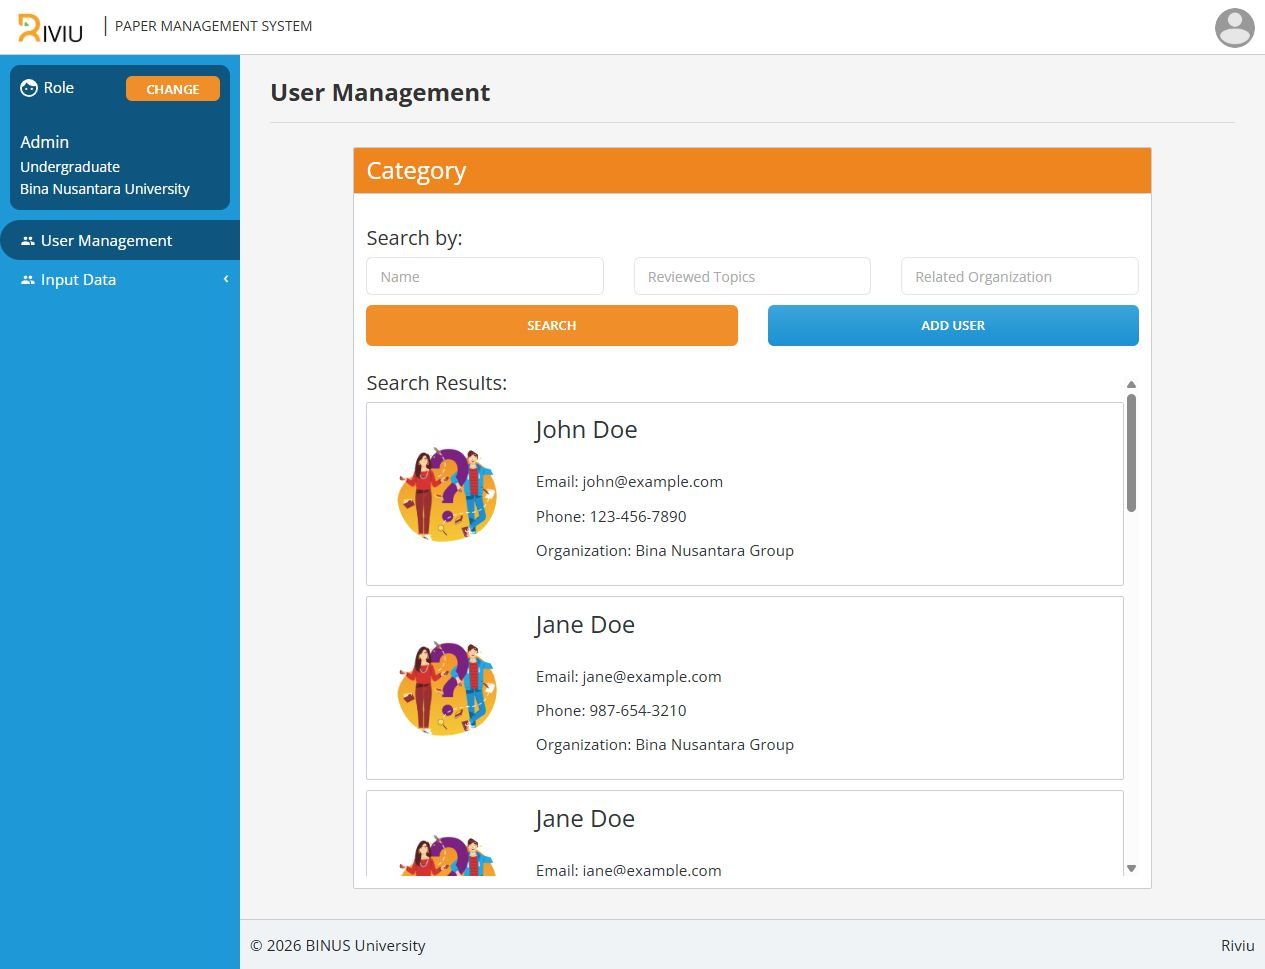
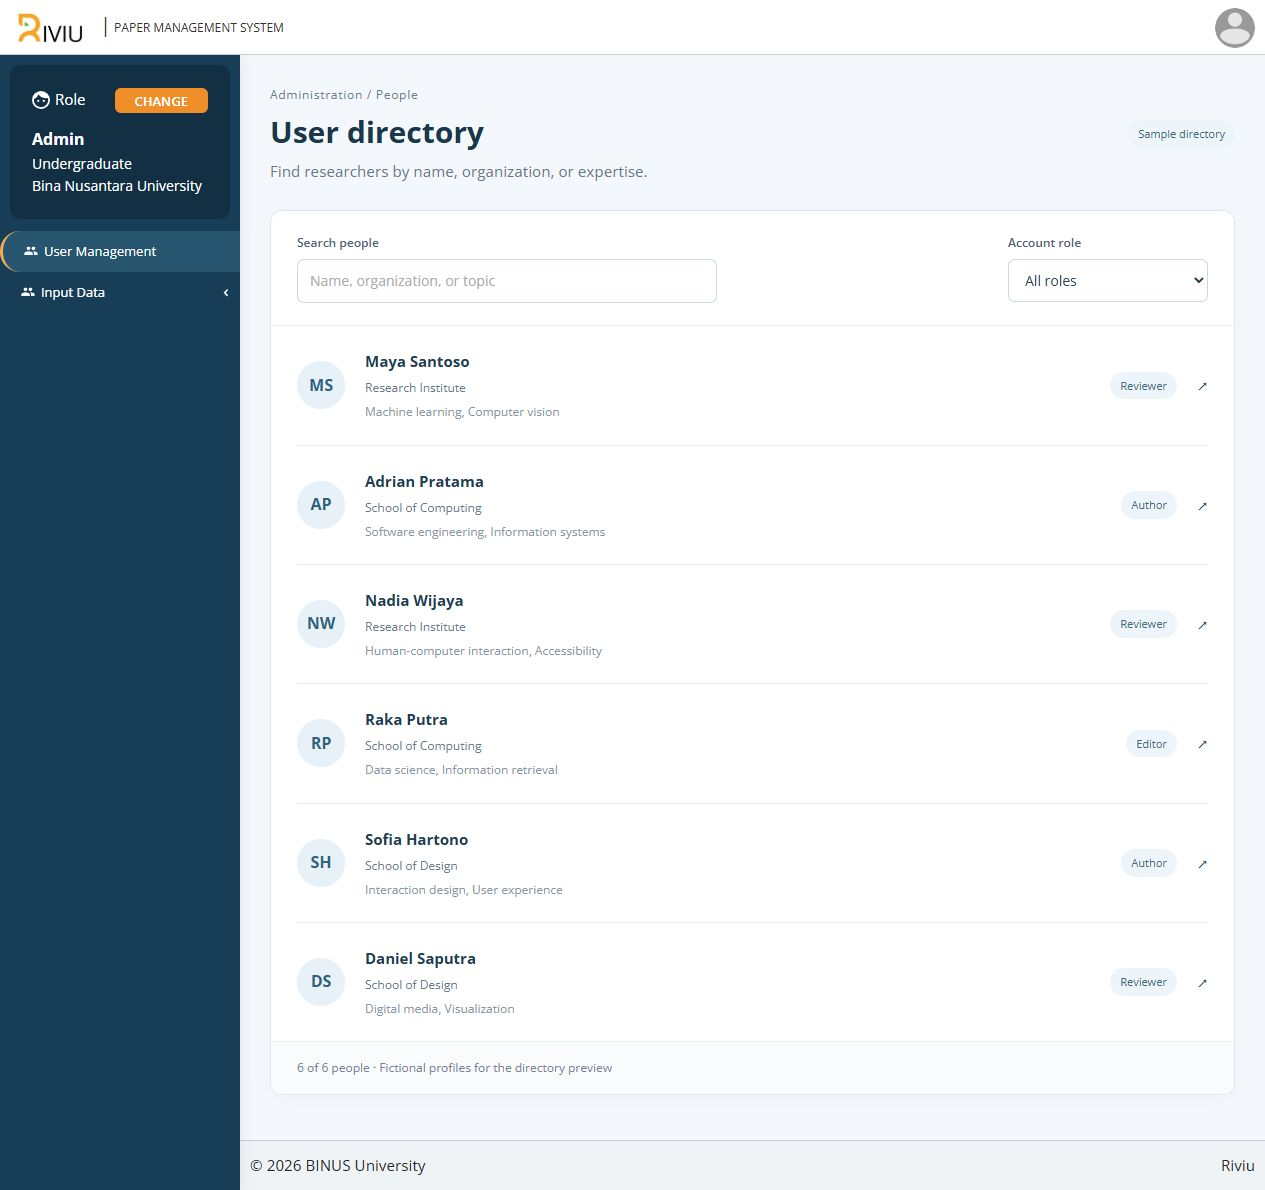
Replace Riviu previews with verified desktop and mobile gallery

diff --git a/site/projects/riviu/index.html b/site/projects/riviu/index.html
@@ -1,1 +1,1 @@
-<!doctype html><html lang="en"><head><meta charset="utf-8"><meta name="viewport" content="width=device-width,initial-scale=1"><title>Riviu — Doddie Prawarjito</title><meta name="description" content="Submission, review, and revision — organized around an academic workflow."><link rel="stylesheet" href="../../style.css"><link rel="stylesheet" href="../../case-study.css"></head><body><a class="skip-link" href="#case">Skip to project</a><header class="case-nav"><a href="../../#work">DODDIE / SELECTED WORK ↖</a><button id="case-language" aria-label="Switch language">EN / ID</button></header><main id="case" class="case-main"><div class="case-kicker mono">REACT / .NET / SQL SERVER</div><h1>Riviu<span class="case-dot">.</span></h1><p class="case-lead"><span data-en="Submission, review, and revision — organized around an academic workflow." data-id="Pengajuan, review, dan revisi dalam sebuah alur kerja akademik.">Submission, review, and revision — organized around an academic workflow.</span></p><div class="case-rule"></div><section class="case-columns"><div><h2 data-en="The idea" data-id="Ide">The idea</h2><p><span data-en="During my BINUS web development internship, I developed .NET backend and React frontend features for an academic-writing and revision-tracking pilot used by a professor. I integrated APIs and handed over the pilot to the next intern team. Quixell was an early trial before the project became Riviu, rather than a separate portfolio achievement." data-id="Saat magang pengembangan web di BINUS, saya mengembangkan backend .NET dan frontend React untuk pilot penulisan akademik dan pelacakan revisi yang digunakan seorang profesor. Saya mengintegrasikan API dan menyerahkan pilot ke tim magang berikutnya. Quixell merupakan percobaan awal sebelum bernama Riviu, sehingga ditampilkan sebagai riwayat proyek yang sama.">During my BINUS web development internship, I developed .NET backend and React frontend features for an academic-writing and revision-tracking pilot used by a professor. I integrated APIs and handed over the pilot to the next intern team. Quixell was an early trial before the project became Riviu, rather than a separate portfolio achievement.</span></p></div><div><h2 data-en="What I built" data-id="Yang saya bangun">What I built</h2><p><span data-en="React administration screens, role navigation and .NET APIs for account, article, publication and review data. Shared authentication connects the services to the interface." data-id="Layar administrasi React, navigasi peran, dan API .NET untuk data akun, artikel, publikasi, serta review. Autentikasi bersama menghubungkan layanan dengan antarmuka.">React administration screens, role navigation and .NET APIs for account, article, publication and review data. Shared authentication connects the services to the interface.</span></p></div></section><section class="case-evidence"><span class="mono" data-en="PROJECT SCOPE" data-id="CAKUPAN PROYEK">PROJECT SCOPE</span><p><span data-en="Five .NET services and the React frontend build successfully. Demo login, role navigation, and authenticated master-data access work locally. A shared demo JWT is accepted across all four data services using dedicated synthetic databases. The local authentication prototype is single-user and in-memory; institutional SSO and the complete manuscript workflow are not verified, and some service controllers remain placeholders." data-id="Lima layanan .NET dan frontend React berhasil dibangun. Login demo, navigasi peran, dan akses master data berjalan secara lokal. JWT demo diterima empat layanan data dengan database sintetis terpisah. Autentikasi demo bersifat satu pengguna dalam memori; SSO institusi dan alur dokumen lengkap belum terverifikasi; beberapa controller masih berupa placeholder.">Five .NET services and the React frontend build successfully. Demo login, role navigation, and authenticated master-data access work locally. A shared demo JWT is accepted across all four data services using dedicated synthetic databases. The local authentication prototype is single-user and in-memory; institutional SSO and the complete manuscript workflow are not verified, and some service controllers remain placeholders.</span></p></section><section class="case-gallery"><h2 data-en="Explore the features" data-id="Jelajahi fitur">Explore the features</h2><figure><a href="../../assets/riviu-master.jpg"><img src="../../assets/riviu-master.jpg" alt="Connected master-data administration · synthetic records" loading="lazy"></a><figcaption><span data-en="Connected master-data administration · synthetic records" data-id="Administrasi master data terhubung · data sintetis">Connected master-data administration · synthetic records</span></figcaption></figure><figure><a href="../../assets/riviu-login.jpg"><img src="../../assets/riviu-login.jpg" alt="Local demo sign-in" loading="lazy"></a><figcaption><span data-en="Local demo sign-in" data-id="Login demo lokal">Local demo sign-in</span></figcaption></figure><figure><a href="../../assets/riviu-users.jpg"><img src="../../assets/riviu-users.jpg" alt="User administration interface · sample profiles" loading="lazy"></a><figcaption><span data-en="User administration interface · sample profiles" data-id="Antarmuka administrasi pengguna · profil contoh">User administration interface · sample profiles</span></figcaption></figure><figure><a href="../../assets/riviu-editor.jpg"><img src="../../assets/riviu-editor.jpg" alt="User-type editor" loading="lazy"></a><figcaption><span data-en="User-type editor" data-id="Editor tipe pengguna">User-type editor</span></figcaption></figure><figure><a href="../../assets/riviu-result.jpg"><img src="../../assets/riviu-result.jpg" alt="Saved reviewer category" loading="lazy"></a><figcaption><span data-en="Saved reviewer category" data-id="Kategori reviewer tersimpan">Saved reviewer category</span></figcaption></figure></section><div class="case-actions"><a href="../../#work">Back to portfolio ↖</a></div></main><footer class="case-footer">DODDIE PRAWARJITO / SOFTWARE DEVELOPER</footer><script src="../../case-study.js"></script></body></html>
+<!doctype html><html lang="en"><head><meta charset="utf-8"><meta name="viewport" content="width=device-width,initial-scale=1"><title>Riviu — Doddie Prawarjito</title><meta name="description" content="Submission, review, and revision — organized around an academic workflow."><link rel="stylesheet" href="../../style.css"><link rel="stylesheet" href="../../case-study.css"></head><body><a class="skip-link" href="#case">Skip to project</a><header class="case-nav"><a href="../../#work">DODDIE / SELECTED WORK ↖</a><button id="case-language" aria-label="Switch language">EN / ID</button></header><main id="case" class="case-main"><div class="case-kicker mono">REACT / .NET / SQL SERVER</div><h1>Riviu<span class="case-dot">.</span></h1><p class="case-lead"><span data-en="An academic workspace with role-based navigation and clear administration tools." data-id="Workspace akademik dengan navigasi peran dan alat administrasi yang jelas.">An academic workspace with role-based navigation and clear administration tools.</span></p><div class="case-rule"></div><section class="case-columns"><div><h2 data-en="The idea" data-id="Ide">The idea</h2><p><span data-en="Built during my BINUS web development internship, Riviu supports an academic-writing and revision-tracking pilot. I developed React and .NET features, integrated services, and handed the project over to the next intern team." data-id="Dibangun saat magang pengembangan web di BINUS, Riviu mendukung pilot penulisan akademik dan pelacakan revisi. Saya mengembangkan fitur React dan .NET, mengintegrasikan layanan, serta menyerahkan proyek kepada tim magang berikutnya.">Built during my BINUS web development internship, Riviu supports an academic-writing and revision-tracking pilot. I developed React and .NET features, integrated services, and handed the project over to the next intern team.</span></p></div><div><h2 data-en="What I built" data-id="Yang saya bangun">What I built</h2><p><span data-en="Role navigation, a searchable researcher directory, and connected user-type administration with validated forms, edit actions, duplicate handling, and deletion confirmation. The refreshed interface adapts to desktop and mobile." data-id="Navigasi peran, direktori peneliti yang dapat dicari, dan administrasi tipe pengguna terhubung dengan validasi form, pengeditan, penanganan duplikasi, serta konfirmasi penghapusan. Antarmuka diperbarui untuk desktop dan mobile.">Role navigation, a searchable researcher directory, and connected user-type administration with validated forms, edit actions, duplicate handling, and deletion confirmation. The refreshed interface adapts to desktop and mobile.</span></p></div></section><section class="case-evidence"><span class="mono" data-en="PROJECT SCOPE" data-id="CAKUPAN PROYEK">PROJECT SCOPE</span><p><span data-en="The local preview connects sign-in and user-type management to .NET services and a separate SQL Server demo database. The researcher directory uses fictional profiles. Institutional SSO and the full manuscript workflow are outside this preview." data-id="Preview lokal menghubungkan login dan pengelolaan tipe pengguna ke layanan .NET dan database demo SQL Server terpisah. Direktori peneliti menggunakan profil fiktif. SSO institusi dan alur manuskrip lengkap di luar cakupan preview ini.">The local preview connects sign-in and user-type management to .NET services and a separate SQL Server demo database. The researcher directory uses fictional profiles. Institutional SSO and the full manuscript workflow are outside this preview.</span></p></section><section class="case-gallery"><h2 data-en="Explore the features" data-id="Jelajahi fitur">Explore the features</h2><figure><a href="../../assets/riviu-master.jpg"><img src="../../assets/riviu-master.jpg" alt="User-type administration · connected demo database" loading="lazy"></a><figcaption><span data-en="User-type administration · connected demo database" data-id="Administrasi tipe pengguna · database demo terhubung">User-type administration · connected demo database</span></figcaption></figure><figure><a href="../../assets/riviu-login.jpg"><img src="../../assets/riviu-login.jpg" alt="Workspace sign-in" loading="lazy"></a><figcaption><span data-en="Workspace sign-in" data-id="Login workspace">Workspace sign-in</span></figcaption></figure><figure><a href="../../assets/riviu-users.jpg"><img src="../../assets/riviu-users.jpg" alt="Searchable researcher directory · sample profiles" loading="lazy"></a><figcaption><span data-en="Searchable researcher directory · sample profiles" data-id="Direktori peneliti dengan pencarian · profil contoh">Searchable researcher directory · sample profiles</span></figcaption></figure><figure><a href="../../assets/riviu-profile.jpg"><img src="../../assets/riviu-profile.jpg" alt="Researcher details and expertise" loading="lazy"></a><figcaption><span data-en="Researcher details and expertise" data-id="Detail dan keahlian peneliti">Researcher details and expertise</span></figcaption></figure><figure><a href="../../assets/riviu-editor.jpg"><img src="../../assets/riviu-editor.jpg" alt="Validated user-type editor" loading="lazy"></a><figcaption><span data-en="Validated user-type editor" data-id="Editor tipe pengguna dengan validasi">Validated user-type editor</span></figcaption></figure><figure><a href="../../assets/riviu-result.jpg"><img src="../../assets/riviu-result.jpg" alt="Saved category and filtered results" loading="lazy"></a><figcaption><span data-en="Saved category and filtered results" data-id="Kategori tersimpan dan hasil pencarian">Saved category and filtered results</span></figcaption></figure><figure class="case-mobile"><a href="../../assets/riviu-mobile.jpg"><img src="../../assets/riviu-mobile.jpg" alt="Mobile user-type administration" loading="lazy"></a><figcaption><span data-en="Mobile user-type administration" data-id="Administrasi tipe pengguna pada mobile">Mobile user-type administration</span></figcaption></figure></section><div class="case-actions"><a href="../../#work">Back to portfolio ↖</a></div></main><footer class="case-footer">DODDIE PRAWARJITO / SOFTWARE DEVELOPER</footer><script src="../../case-study.js"></script></body></html>

diff --git a/site/projects.js b/site/projects.js
@@ -68,46 +68,56 @@ const projects = [
     "stack": "REACT / .NET / SQL SERVER",
     "cover": "riviu",
     "summary": [
-      "Submission, review, and revision — organized around an academic workflow.",
-      "Pengajuan, review, dan revisi dalam sebuah alur kerja akademik."
+      "An academic workspace with role-based navigation and clear administration tools.",
+      "Workspace akademik dengan navigasi peran dan alat administrasi yang jelas."
     ],
     "story": [
-      "During my BINUS web development internship, I developed .NET backend and React frontend features for an academic-writing and revision-tracking pilot used by a professor. I integrated APIs and handed over the pilot to the next intern team. Quixell was an early trial before the project became Riviu, rather than a separate portfolio achievement.",
-      "Saat magang pengembangan web di BINUS, saya mengembangkan backend .NET dan frontend React untuk pilot penulisan akademik dan pelacakan revisi yang digunakan seorang profesor. Saya mengintegrasikan API dan menyerahkan pilot ke tim magang berikutnya. Quixell merupakan percobaan awal sebelum bernama Riviu, sehingga ditampilkan sebagai riwayat proyek yang sama."
+      "Built during my BINUS web development internship, Riviu supports an academic-writing and revision-tracking pilot. I developed React and .NET features, integrated services, and handed the project over to the next intern team.",
+      "Dibangun saat magang pengembangan web di BINUS, Riviu mendukung pilot penulisan akademik dan pelacakan revisi. Saya mengembangkan fitur React dan .NET, mengintegrasikan layanan, serta menyerahkan proyek kepada tim magang berikutnya."
     ],
     "contribution": [
-      "React administration screens, role navigation and .NET APIs for account, article, publication and review data. Shared authentication connects the services to the interface.",
-      "Layar administrasi React, navigasi peran, dan API .NET untuk data akun, artikel, publikasi, serta review. Autentikasi bersama menghubungkan layanan dengan antarmuka."
+      "Role navigation, a searchable researcher directory, and connected user-type administration with validated forms, edit actions, duplicate handling, and deletion confirmation. The refreshed interface adapts to desktop and mobile.",
+      "Navigasi peran, direktori peneliti yang dapat dicari, dan administrasi tipe pengguna terhubung dengan validasi form, pengeditan, penanganan duplikasi, serta konfirmasi penghapusan. Antarmuka diperbarui untuk desktop dan mobile."
     ],
     "evidence": [
-      "Five .NET services and the React frontend build successfully. Demo login, role navigation, and authenticated master-data access work locally. A shared demo JWT is accepted across all four data services using dedicated synthetic databases. The local authentication prototype is single-user and in-memory; institutional SSO and the complete manuscript workflow are not verified, and some service controllers remain placeholders.",
-      "Lima layanan .NET dan frontend React berhasil dibangun. Login demo, navigasi peran, dan akses master data berjalan secara lokal. JWT demo diterima empat layanan data dengan database sintetis terpisah. Autentikasi demo bersifat satu pengguna dalam memori; SSO institusi dan alur dokumen lengkap belum terverifikasi; beberapa controller masih berupa placeholder."
+      "The local preview connects sign-in and user-type management to .NET services and a separate SQL Server demo database. The researcher directory uses fictional profiles. Institutional SSO and the full manuscript workflow are outside this preview.",
+      "Preview lokal menghubungkan login dan pengelolaan tipe pengguna ke layanan .NET dan database demo SQL Server terpisah. Direktori peneliti menggunakan profil fiktif. SSO institusi dan alur manuskrip lengkap di luar cakupan preview ini."
     ],
     "gallery": [
       [
         "riviu-master.jpg",
-        "Connected master-data administration · synthetic records",
-        "Administrasi master data terhubung · data sintetis"
+        "User-type administration · connected demo database",
+        "Administrasi tipe pengguna · database demo terhubung"
       ],
       [
         "riviu-login.jpg",
-        "Local demo sign-in",
-        "Login demo lokal"
+        "Workspace sign-in",
+        "Login workspace"
       ],
       [
         "riviu-users.jpg",
-        "User administration interface · sample profiles",
-        "Antarmuka administrasi pengguna · profil contoh"
+        "Searchable researcher directory · sample profiles",
+        "Direktori peneliti dengan pencarian · profil contoh"
+      ],
+      [
+        "riviu-profile.jpg",
+        "Researcher details and expertise",
+        "Detail dan keahlian peneliti"
       ],
       [
         "riviu-editor.jpg",
-        "User-type editor",
-        "Editor tipe pengguna"
+        "Validated user-type editor",
+        "Editor tipe pengguna dengan validasi"
       ],
       [
         "riviu-result.jpg",
-        "Saved reviewer category",
-        "Kategori reviewer tersimpan"
+        "Saved category and filtered results",
+        "Kategori tersimpan dan hasil pencarian"
+      ],
+      [
+        "riviu-mobile.jpg",
+        "Mobile user-type administration",
+        "Administrasi tipe pengguna pada mobile"
       ]
     ]
   },

diff --git a/site/app.js b/site/app.js
@@ -14,7 +14,7 @@ function diagram(type){
 }
 function cover(project){if(project.gallery?.length)return `<img src="assets/${esc(project.gallery[0][0])}" alt="${esc(pick(project.gallery[0].slice(1)))}" loading="lazy">`;if(project.cover==='riviu')return '<img src="assets/riviu-demo.png" alt="Riviu master-data screen with synthetic records" loading="lazy" width="1101" height="884">';if(project.cover==='material')return '<img src="assets/material-dashboard.png" alt="Material Request dashboard using synthetic records" loading="lazy" width="894" height="830">';if(project.cover==='ats')return '<img src="assets/ats-home.png" alt="ATS company website homepage" loading="lazy" width="1086" height="872">';return diagram(project.cover);}
 function renderProjects(){
- document.querySelector('#projects').innerHTML=projects.map((p,i)=>`<article class="project-card" ${filter!=='all'&&filter!==p.category?'hidden':''}><div class="project-cover">${cover(p)}<span class="cover-label">${p.gallery?.length?(language==='en'?'ACTUAL SCREENSHOT':'SCREENSHOT LOKAL'):'SYSTEM MAP'}</span></div><div class="project-meta"><span>${String(i+1).padStart(2,'0')} / ${esc(pick(p.kind))}</span><span>${p.id==='stockmate'?'↗ WIP':'↗'}</span></div><div class="project-title"><h3>${esc(p.title)}</h3><button data-project="${p.id}" aria-label="${language==='en'?'Read about':'Baca tentang'} ${esc(p.title)}">↗</button></div><p>${esc(pick(p.summary))}</p><button class="read-story" data-project="${p.id}">${language==='en'?'Read the project story':'Baca cerita proyek'} →</button></article>`).join('');
+ document.querySelector('#projects').innerHTML=projects.map((p,i)=>`<article class="project-card" data-project-id="${esc(p.id)}" ${filter!=='all'&&filter!==p.category?'hidden':''}><div class="project-cover">${cover(p)}<span class="cover-label">${p.gallery?.length?(language==='en'?'ACTUAL SCREENSHOT':'SCREENSHOT LOKAL'):'SYSTEM MAP'}</span></div><div class="project-meta"><span>${String(i+1).padStart(2,'0')} / ${esc(pick(p.kind))}</span><span>${p.id==='stockmate'?'↗ WIP':'↗'}</span></div><div class="project-title"><h3>${esc(p.title)}</h3><button data-project="${p.id}" aria-label="${language==='en'?'Read about':'Baca tentang'} ${esc(p.title)}">↗</button></div><p>${esc(pick(p.summary))}</p><button class="read-story" data-project="${p.id}">${language==='en'?'Read the project story':'Baca cerita proyek'} →</button></article>`).join('');
  document.querySelector('#design-projects').innerHTML=designProjects.map(p=>`<article class="project-card"><a class="project-cover" href="${esc(p.demo)}" target="_blank" rel="noopener noreferrer" aria-label="${language==='en'?'Open the full':'Buka desain lengkap'} ${esc(p.title)} ${language==='en'?'design':''}">${cover(p)}</a><div class="project-meta"><span>${esc(pick(p.kind))}</span></div><h3>${esc(p.title)}</h3><p>${esc(pick(p.summary))}</p><div class="design-actions"><button class="read-story" data-project="${p.id}">${language==='en'?'Project story':'Cerita proyek'} →</button><a href="${esc(p.demo)}" target="_blank" rel="noopener noreferrer">${language==='en'?'Run the demo':'Buka demo'} ↗</a></div></article>`).join('');
  const count=projects.filter(p=>filter==='all'||filter===p.category).length;document.querySelector('#project-count').textContent=`${String(count).padStart(2,'0')} ${language==='en'?'PROJECTS':'PROYEK'}`;
  document.querySelector('#archive').innerHTML=learningProjects.map(p=>`<article class="archive-row"><span class="tag">${p.tag}</span><strong>${esc(p.title)}</strong><p>${esc(pick(p.summary))}</p><button data-project="${p.id}" aria-label="${language==='en'?'Read about':'Baca tentang'} ${esc(p.title)}">↗</button></article>`).join('');

diff --git a/site/case-study.css b/site/case-study.css
@@ -1,2 +1,3 @@
 .case-nav{padding:26px 6vw;display:flex;justify-content:space-between;border-bottom:1px solid var(--ink);font-family:monospace;font-size:12px;letter-spacing:.08em}.case-nav a{text-decoration:none}.case-nav button{border:0;background:none;cursor:pointer}.case-main{max-width:1200px;margin:auto;padding:80px 6vw}.case-kicker{color:var(--accent);font-size:11px;letter-spacing:.16em}.case-main h1{font-size:clamp(58px,9vw,122px);line-height:1.02;letter-spacing:-.07em;margin:30px 0}.case-dot{color:#bb311e}.case-lead{font-size:clamp(22px,3vw,34px);max-width:850px;line-height:1.4}.case-rule{height:3px;background:#22231f;margin:60px 0}.case-columns{display:grid;grid-template-columns:1fr 1fr;gap:60px}.case-main h2{font-size:24px;letter-spacing:-.03em}.case-columns p,.case-evidence p{font-size:17px;line-height:1.8}.case-evidence{margin:48px 0;padding:32px;border-left:4px solid #bb311e;background:#e3dfd4}.case-evidence .mono{font-size:11px;letter-spacing:.12em}.case-gallery{margin-top:70px}.case-gallery figure{margin:36px 0}.case-gallery img{width:100%;height:auto;border:1px solid #ccc8bb;display:block;background:#fff}.case-gallery figcaption{padding:16px 0;font-size:13px;line-height:1.5;color:#60615a}.case-gallery a:focus-visible{outline:3px solid #bb311e;outline-offset:5px}.case-no-shot{max-width:680px;line-height:1.8;color:#60615a}.case-actions{display:flex;flex-wrap:wrap;gap:25px;margin-top:70px;padding-top:30px;border-top:1px solid #22231f}.case-actions a{font-size:14px}.case-footer{padding:30px 6vw;border-top:1px solid #22231f;font:11px monospace;letter-spacing:.12em}@media(max-width:700px){.case-main{padding-top:50px}.case-columns{grid-template-columns:1fr;gap:20px}.case-rule{margin:35px 0}.case-evidence{padding:22px}.case-nav{font-size:10px}}
 .skip-link{position:absolute;left:15px;top:-100px;background:#fff;padding:12px;z-index:5}.skip-link:focus{top:10px}
+.case-gallery .case-mobile img{max-width:420px;margin-inline:auto;display:block}

diff --git a/site/style.css b/site/style.css
@@ -11,3 +11,5 @@
 .design-grid .project-cover{height:340px;padding:16px}
 .design-grid .project-cover img{width:100%;height:100%;object-fit:contain;object-position:center;border:0;box-shadow:none}
 .design-grid .project-card:hover .project-cover img{transform:none}
+.project-card[data-project-id="riviu"] .project-cover{background:#e7edf3}
+.project-card[data-project-id="riviu"] .project-cover img{width:94%;height:92%;object-fit:contain;border:0;box-shadow:none;transform:none}

diff --git a/README.md b/README.md
@@ -4,7 +4,7 @@
 
 Selected work in business applications, SQL performance, system integration, interface design and machine learning. English and Bahasa Indonesia, accessible project dialogs, feature galleries, and downloadable PDF resumes.
 
-Five business and engineering projects lead the site. FisHE, Go Truck and Voila have a separate design section. InSOgram and Low-light Vision show interactive frontend work and computer-vision results. Ten project galleries contain 39 screenshots and result figures.
+Five business and engineering projects lead the site. FisHE, Go Truck and Voila have a separate design section. InSOgram and Low-light Vision show interactive frontend work and computer-vision results. Ten project galleries contain 41 screenshots and result figures.
 
 The resume buttons download the BRI software-engineer photo PDF in the selected language. The Word and PDF versions contain a clickable portfolio link.
 
